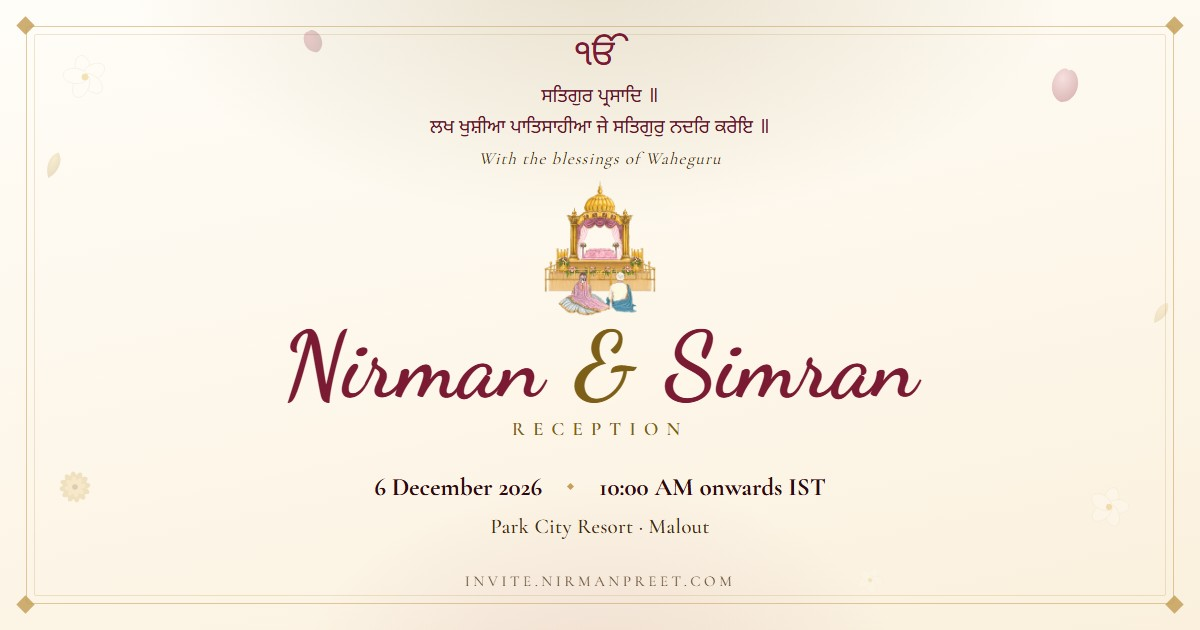
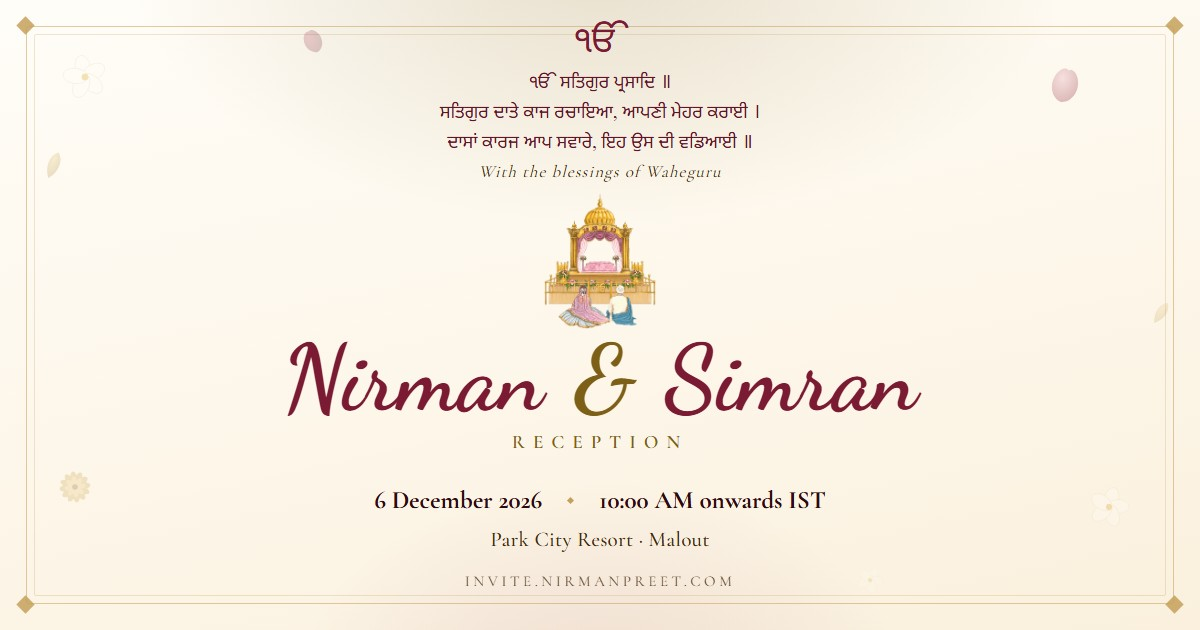
Share card showed a blessing that is not on the invitation
The Facebook debugger was right: the card carried an older blessing. It read

    ਲਖ ਖੁਸ਼ੀਆ ਪਾਤਿਸਾਹੀਆ ਜੇ ਸਤਿਗੁਰੁ ਨਦਰਿ ਕਰੇਇ ॥

which appears nowhere on the site. The invitation's actual blessing is

    ਸਤਿਗੁਰ ਪ੍ਰਸਾਦਿ ॥
    ਸਤਿਗੁਰ ਦਾਤੇ ਕਾਜ ਰਚਾਇਆ, ਆਪਣੀ ਮੇਹਰ ਕਰਾਈ।
    ਦਾਸਾਂ ਕਾਰਜ ਆਪ ਸਵਾਰੇ, ਇਹ ਉਸ ਦੀ ਵਡਿਆਈ ॥

Two separate bugs, both of which had to be fixed before reading from config
would have helped at all:

1. make-og.js carried the blessing as a HARDCODED string. It now reads the
   Gurmukhi from i18n.pa.footerNote, stops at the first non-Gurmukhi line (the
   English sentence that block ends with) and drops the leading "ੴ", which
   the template already draws on its own. So the card cannot carry a blessing
   the invitation does not, by construction rather than by care.

2. The template painted o.gurbani[0] + '<br>' + o.gurbani[1] - it rendered
   the first two lines and DISCARDED the rest. Reading from config alone would
   have changed nothing visible: the third line would still have been dropped
   on the floor. paint() now maps over every line, each in its own block so a
   long Gurmukhi line wraps instead of pushing the layout sideways.

make-og.js checks this rather than trusting it, because the whole point of
reading the blessing from config is that the two cannot drift, and that
guarantee is worth nothing unverified:

- every line injected must appear on the card, or the build fails and prints
[…]

Changed region(s): [[0.2158, 0.0302, 0.7708, 0.7238], [0.3083, 0.754, 0.7092, 0.8746]]

diff --git a/tools/make-og.js b/tools/make-og.js
@@ -73,11 +73,47 @@ class Tab {
   const venue = config.venue || {};
   const extra = (config.i18n && config.i18n._extra) || {};
   const en = extra.en || {};
+  const i18n = config.i18n || {};
+
+  /* The Gurmukhi blessing, taken from config instead of being typed here.
+
+     This WAS hardcoded, and it had drifted: the card carried
+     "ਲਖ ਖੁਸ਼ੀਆ ਪਾਤਿਸਾਹੀਆ ਜੇ ਸਤਿਗੁਰੁ ਨਦਰਿ ਕਰੇਇ ॥" - an OLD version of the blessing
+     that no longer appears anywhere on the invitation, whose current text is
+     "ਸਤਿਗੁਰ ਦਾਤੇ ਕਾਜ ਰਚਾਇਆ, ਆਪਣੀ ਮੇਹਰ ਕਰਾਈ। / ਦਾਸਾਂ ਕਾਰਜ ਆਪ ਸਵਾਰੇ, ...".
+     A guest comparing the share card against the page would see two different
+     blessings, and the card is what strangers see first.
+
+     i18n.pa.footerNote holds the Gurmukhi only; i18n.en.footerNote appends an
+     English line after it. Take the Gurmukhi lines from the Punjabi block,
+     drop the leading "ੴ" (the card draws it separately, larger, above), and
+     stop at the first line that is not Gurmukhi. */
+  /* Explicit loop, not an IIFE. The IIFE form relied on `return` inside a
+     for-loop, and a stray blank line in the config silently truncated the
+     blessing to its first line while the tool still reported success. */
+  const blessingLines = [];
+  {
+    const raw = String((i18n.pa && i18n.pa.footerNote) || '');
+    const lines = raw.split(/\r?\n/)
+      .map(function (s) { return s.trim(); })
+      .filter(Boolean);
+    for (const line of lines) {
+      // A line with no Gurmukhi at all is the trailing English sentence.
+      if (!/[਀-੿]/.test(line)) break;
+      // The leading Ik Onkar is drawn separately by the template.
+      const cleaned = line.replace(/^਴\s*/, '').trim();
+      if (cleaned) blessingLines.push(cleaned);
+    }
+  }
+
+  if (!blessingLines.length) {
+    console.error('could not read any Gurmukhi blessing lines from i18n.pa.footerNote in data/config.json');
+    console.error('The share card must use the SAME blessing as the invitation, not a private copy.');
+    process.exit(1);
+  }
+
   const og = {
-    gurbani: [
-      'ਸਤਿਗੁਰ ਪ੍ਰਸਾਦਿ ॥',
-      'ਲਖ ਖੁਸ਼ੀਆ ਪਾਤਿਸਾਹੀਆ ਜੇ ਸਤਿਗੁਰੁ ਨਦਰਿ ਕਰੇਇ ॥'
-    ],
+    gurbani: blessingLines,
     blessing: en.blessing || 'With the blessings of Waheguru',
     heading: (en.receptionHeading || 'Wedding Reception').toUpperCase(),
     p1, p2,
@@ -139,6 +175,61 @@ class Tab {
     "var c=getComputedStyle(e);" +
     "return [c.fontFamily.split(',')[0].replace(/[\"']/g,''), c.fontWeight, s];}))"
   )).filter(Boolean);
+  /* The blessing is read from config, so its length is not fixed. A longer
+     one must not silently push the layout around, and it must not be allowed
+     to collide with the artwork - so check the gap rather than eyeball it.
+     Overflow is already fatal below, but a collision reads as "fits fine" and
+     is the more embarrassing of the two. */
+  const blessingCheck = JSON.parse(await tab.ev(
+    "JSON.stringify((function(){var g=document.getElementById('gurbani')," +
+    "a=document.querySelector('.art');" +
+    "var gr=g.getBoundingClientRect(), ar=a.getBoundingClientRect();" +
+    "return {" +
+    "bottom:Math.round(gr.bottom), artTop:Math.round(ar.top)," +
+    // Return the rendered text whole and count the lines here in Node.
+    // Splitting inside the expression string means pushing a backslash
+    // through two parsers, and getting that wrong silently yields one
+    // empty line - which reads as "the blessing does not match config".
+    // NOT JSON.stringify'd on the inner value: the outer JSON.stringify of
+    // the object already encodes it, and doing both leaves the text arriving
+    // here still quoted with literal \n sequences instead of real newlines.
+    "text:(g.innerText || g.textContent || '')," +
+    "h:Math.round(gr.height)};})())"
+  ));
+  const gap = blessingCheck.artTop - blessingCheck.bottom;
+  const rendered = String(blessingCheck.text || '').split('\n').map(s => s.trim()).filter(Boolean);
+  console.log('  blessing: ' + rendered.length + ' Gurmukhi lines, ends y=' +
+    blessingCheck.bottom + ', artwork starts y=' + blessingCheck.artTop + ' (gap ' + gap + 'px)');
+  /* The rendered blessing must match the one in config, line for line. The
+     whole point of reading it from config was that the card can never show a
+     blessing the invitation does not, and that guarantee is only worth
+     anything if it is checked. */
+  /* Every line handed to the template must appear on the card.
+     This does NOT check the blessing against the invitation - both sides come
+     from the same config read, so that is true by construction. What it does
+     catch is the TEMPLATE silently dropping lines, which is precisely the bug
+     that shipped: the template painted o.gurbani[0] + '<br>' + o.gurbani[1]
+     and threw away everything after the second line, so a three-line blessing
+     from config reached the card as two. */
+  const expected = og.gurbani;
+  const same = rendered.length === expected.length &&
+    rendered.every((l, i) => l === expected[i]);
+  if (!same) {
+    console.error('the card is not showing every line it was given.');
+    console.error('  injected (' + expected.length + '):');
+    expected.forEach((l, i) => console.error('    ' + (i + 1) + '. ' + l));
+    console.error('  rendered on the card (' + rendered.length + '):');
+    rendered.forEach((l, i) => console.error('    ' + (i + 1) + '. ' + l));
+    console.error('Check paint() in tools/og-template.html - it must render ALL lines,');
+    console.error('not a hardcoded first and second.');
+    process.exit(1);
+  }
+  if (gap < 6) {
+    console.error('the blessing runs into the ceremony artwork (' + gap + 'px gap; need at least 6).');
+    console.error('It has ' + rendered.length + ' lines now - reduce the copy in i18n.pa.footerNote');
+    console.error('or drop .gurbani font-size a step in tools/og-template.html.');
+    process.exit(1);
+  }
   // Push the list in as a page global rather than splicing JSON into an
   // expression string: the family names contain spaces and the descriptor
   // needs real quote characters, which is exactly where hand-built escaping

diff --git a/tools/og-template.html b/tools/og-template.html
@@ -115,11 +115,18 @@
   .gurbani {
     font-family: 'Noto Sans Gurmukhi', serif;
     font-weight: 500;
-    font-size: 19px;
-    line-height: 1.6;
+    /* 18px, not 19px: the blessing is now THREE Gurmukhi lines read from
+       config rather than two, and at 19px the block collided with the
+       artwork. */
+    font-size: 18px;
+    line-height: 1.55;
     color: var(--maroon);
     margin-bottom: 4px;
   }
+  /* One <span> per line, laid out as blocks: a Gurmukhi line longer than the
+     card is wide has to WRAP rather than push the layout sideways. */
+  .gurbani span { display: block; }
+  .gurbani span + span { margin-top: 2px; }
   .blessing-en {
     font-size: 17px;
     letter-spacing: 1.1px;
@@ -315,7 +322,13 @@
 
   function paint() {
     var o = window.__OG__;
-    document.getElementById('gurbani').innerHTML = o.gurbani[0] + '<br>' + o.gurbani[1];
+    /* Join EVERY line, not just the first two. This was o.gurbani[0] + '<br>' +
+       o.gurbani[1], which silently dropped everything past the second - so a
+       three-line blessing from config rendered as two, and the third line
+       ("ਦਾਸਾਂ ਕਾਰਜ ਆਪ ਸਵਾਰੇ...") never reached the card at all. Length of
+       the blessing must come from config, not from this file. */
+    document.getElementById('gurbani').innerHTML =
+      o.gurbani.map(function (l) { return '<span>' + l + '</span>'; }).join('');
     document.getElementById('blessing').textContent = o.blessing;
     document.getElementById('heading').textContent = o.heading;
     document.getElementById('names').innerHTML =
